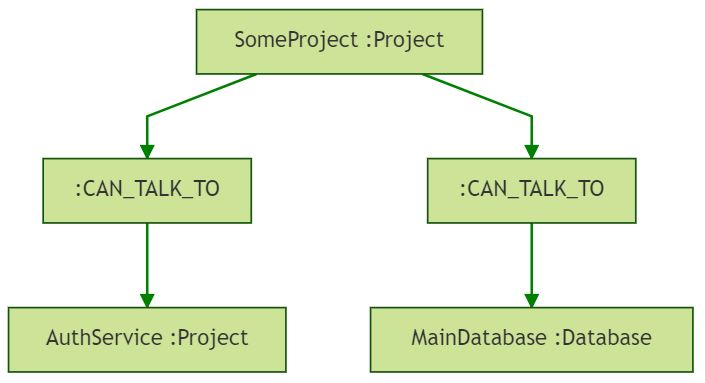
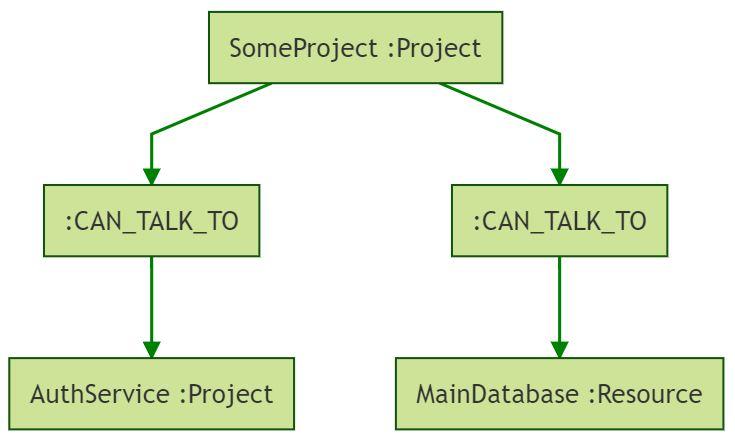
Added stuff

diff --git a/content/posts/029-2020-01-10-project-analysis-neo4j/post.md b/content/posts/029-2020-01-10-project-analysis-neo4j/post.md
@@ -199,15 +199,20 @@ The query matches the first 100 nodes with any label (Project, Library or Resour
 
 ![NodesAndRelationships](images/neo-fs/ExampleRepo.jpg)
 
-The UI looks cool but its not the most practical way for applications to query the TODO
+Neo4j can be queried for relationships, the names of nodes connected by the `CAN_TALK_TO` relationship to the node with `name = 'AuthService'` and label `Project` can be found with the query:
 
 ``` sql
-MATCH p=(s:Project)-[r:REFERENCES]->(e:Library{name: "Newtonsoft.Json" })  
+MATCH p=(p1)-[r:CAN_TALK_TO]->(p2:Project{name:'AuthService'}) 
+RETURN p1.name
+```
+
+![AuthServiceQuery](AuthServiceQuery.jpg)
+
+
+
+``` sql
+MATCH p=(s:Project)-[r:REFERENCES]->(e:Library{name:"Newtonsoft.Json"})  
 RETURN s.name, r.version, r.platform
 ```
 
-``` sql
-MATCH p=(p1)-[r:CAN_TALK_TO]->(p2:Project{ name:'AuthService' }) 
-RETURN p1.name LIMIT 250
-```
 
